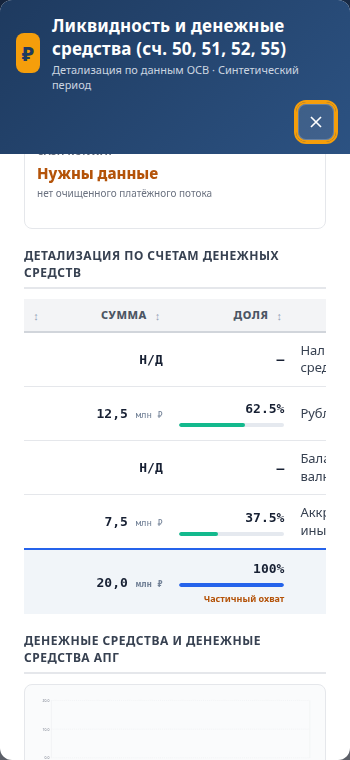
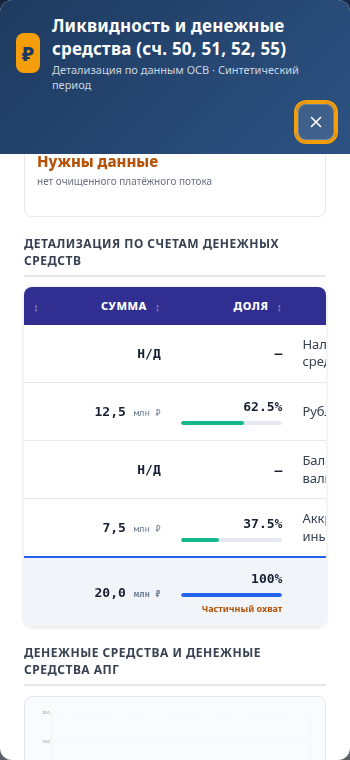
Update key indicators styling and refresh dashboard screenshots
Replit-Commit-Author: Agent

diff --git a/osv-dashboard/static/key_indicators.css b/osv-dashboard/static/key_indicators.css
@@ -506,15 +506,18 @@ details.warnings-details ul { margin-left: 16px; margin-top: 6px; }
 .metric-rich-source { color:#9CA3AF; font-style:italic; font-size:9px; margin-top:9px; }
 .cash-table-scroll {
   width:100%; overflow-x:auto; margin-bottom:18px;
-  background:#fff; box-sizing:border-box;
+  background:#fff; border-radius:8px; box-shadow:0 1px 4px rgba(15,23,42,.14);
+  box-sizing:border-box;
 }
 .cash-table-scroll:focus-visible { outline:2px solid #2563EB; outline-offset:2px; }
 .cash-table { width:100%; min-width:760px; border-collapse:collapse; table-layout:fixed; font-size:13px; color:#374151; }
 .cash-table th {
-  background:#F3F4F6; color:#4B5563; padding:9px 8px; text-align:right;
+  background:#312E91; color:#fff; padding:12px 10px; text-align:right;
   font-size:11px; line-height:1.25; font-weight:800; text-transform:uppercase;
-  letter-spacing:.5px; border-bottom:2px solid #D1D5DB;
+  letter-spacing:.5px; border-bottom:0;
 }
+.cash-table th:first-child { border-radius:8px 0 0 0; }
+.cash-table th:last-child { border-radius:0 8px 0 0; }
 .cash-table th:nth-child(1) { width:27%; }
 .cash-table th:nth-child(2) { width:16%; }
 .cash-table th:nth-child(3) { width:16%; }
@@ -523,7 +526,7 @@ details.warnings-details ul { margin-left: 16px; margin-top: 6px; }
 .cash-table th:last-child { border-right:0; }
 .cash-table th:first-child, .cash-table td:first-child { text-align:left; }
 .cash-table td {
-  padding:9px 8px; text-align:right; vertical-align:middle;
+  padding:11px 10px; text-align:right; vertical-align:middle;
   border-bottom:1px solid #E5E7EB; color:#374151;
 }
 .cash-table td:last-child { border-right:0; }
